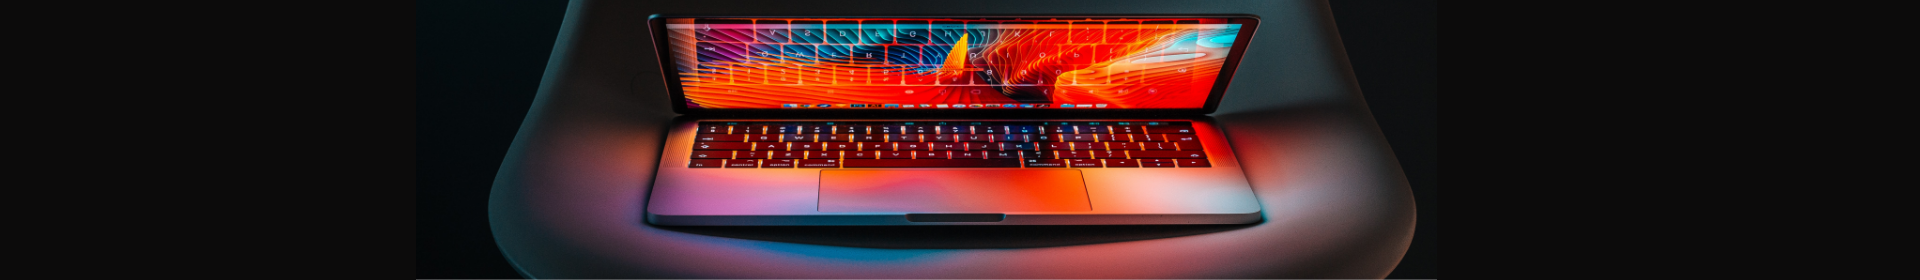
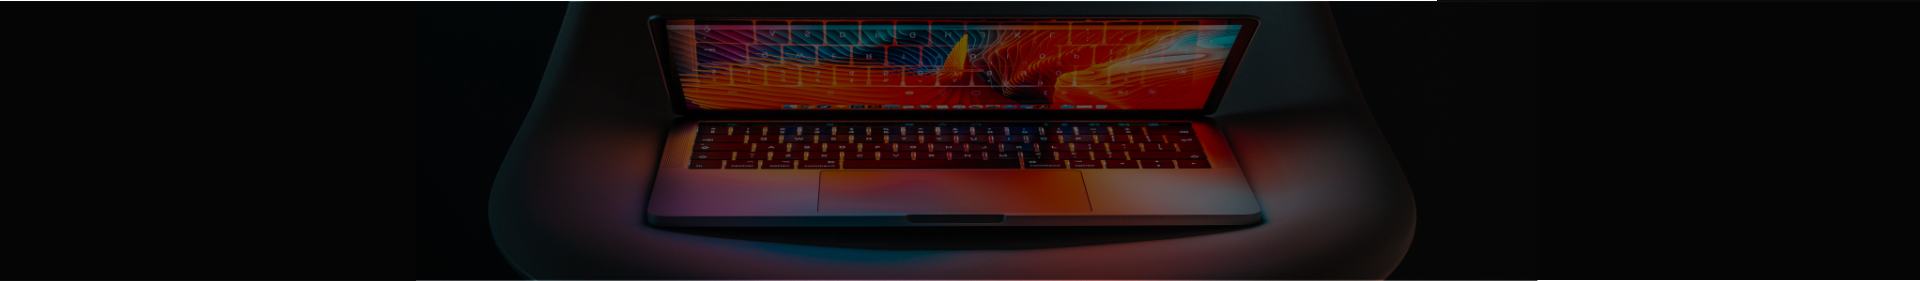
GetOfferSection

diff --git a/src/components/OfferSection/index.jsx b/src/components/OfferSection/index.jsx
@@ -1,0 +1,26 @@
+import { Container } from "../../GlobalStyles";
+import Button from "../Button";
+import { OfferSection, Text } from "./index.style";
+
+const Offer = (props) => {
+  return (
+    <OfferSection>
+      <Container
+        w="60%"
+        margin="auto"
+        style={{
+          display: "flex",
+          flexDirection: "row",
+          justifyContent: "space-around",
+        }}
+      >
+        <Text>Get 50% Off</Text>
+        <Button
+          text="Start Shopping"
+        />
+      </Container>
+    </OfferSection>
+  );
+};
+
+export default Offer;

diff --git a/src/pages/Home/Home.jsx b/src/pages/Home/Home.jsx
@@ -1,12 +1,16 @@
 import { Container } from "../../GlobalStyles";
 import { SingleSlider } from "../../components";
 import Featuredproducts from "../../components/FeaturedProducts";
+import OfferSection from "../../components/OfferSection";
 
 const Home = () => {
   return (
     <Container w="100%" h="100vh">
       <Container margin="auto" mt="50px" w="85%">
         <SingleSlider />
+      </Container>
+      <OfferSection />
+      <Container margin="auto" mt="50px" w="85%">
         <Featuredproducts />
       </Container>
     </Container>

diff --git a/src/components/OfferSection/index.style.js b/src/components/OfferSection/index.style.js
@@ -1,0 +1,21 @@
+import styled from "styled-components";
+
+export const OfferSection = styled.div`
+  margin-top: 193px;
+  width: 100%;
+  height: auto;
+  padding: 80px 0px;
+  background-image: url("images/laptop_bg.PNG");
+  background-repeat: no-repeat;
+  background-size: cover;
+  display: flex;
+  flex-direction: row;
+  justify-content: center;
+  align-items: center;
+`;
+
+export const Text = styled.p`
+  color: white;
+  font-weight: bold;
+  font-size: 35px;
+`;

diff --git a/src/components/Button/index.jsx b/src/components/Button/index.jsx
@@ -1,0 +1,20 @@
+import "./index.style";
+import { Btn } from "./index.style";
+
+const Button = (props) => {
+  return (
+    <Btn
+      style={{
+        width: "20%",
+        backgroundColor: "transparent",
+        border: "1px solid #fff",
+        color: "#fff",
+        fontSize: "16px",
+      }}
+    >
+      {props.text}
+    </Btn>
+  );
+};
+
+export default Button;

diff --git a/src/components/Button/index.style.js b/src/components/Button/index.style.js
@@ -1,0 +1,8 @@
+import styled from "styled-components";
+
+export const Btn = styled.button`
+  width: ${(props) => props.width};
+  height: ${(props) => props.height};
+  background-color: ${(props) => props.bgColor};
+  font-size: ${(props) => props.size};
+`;
